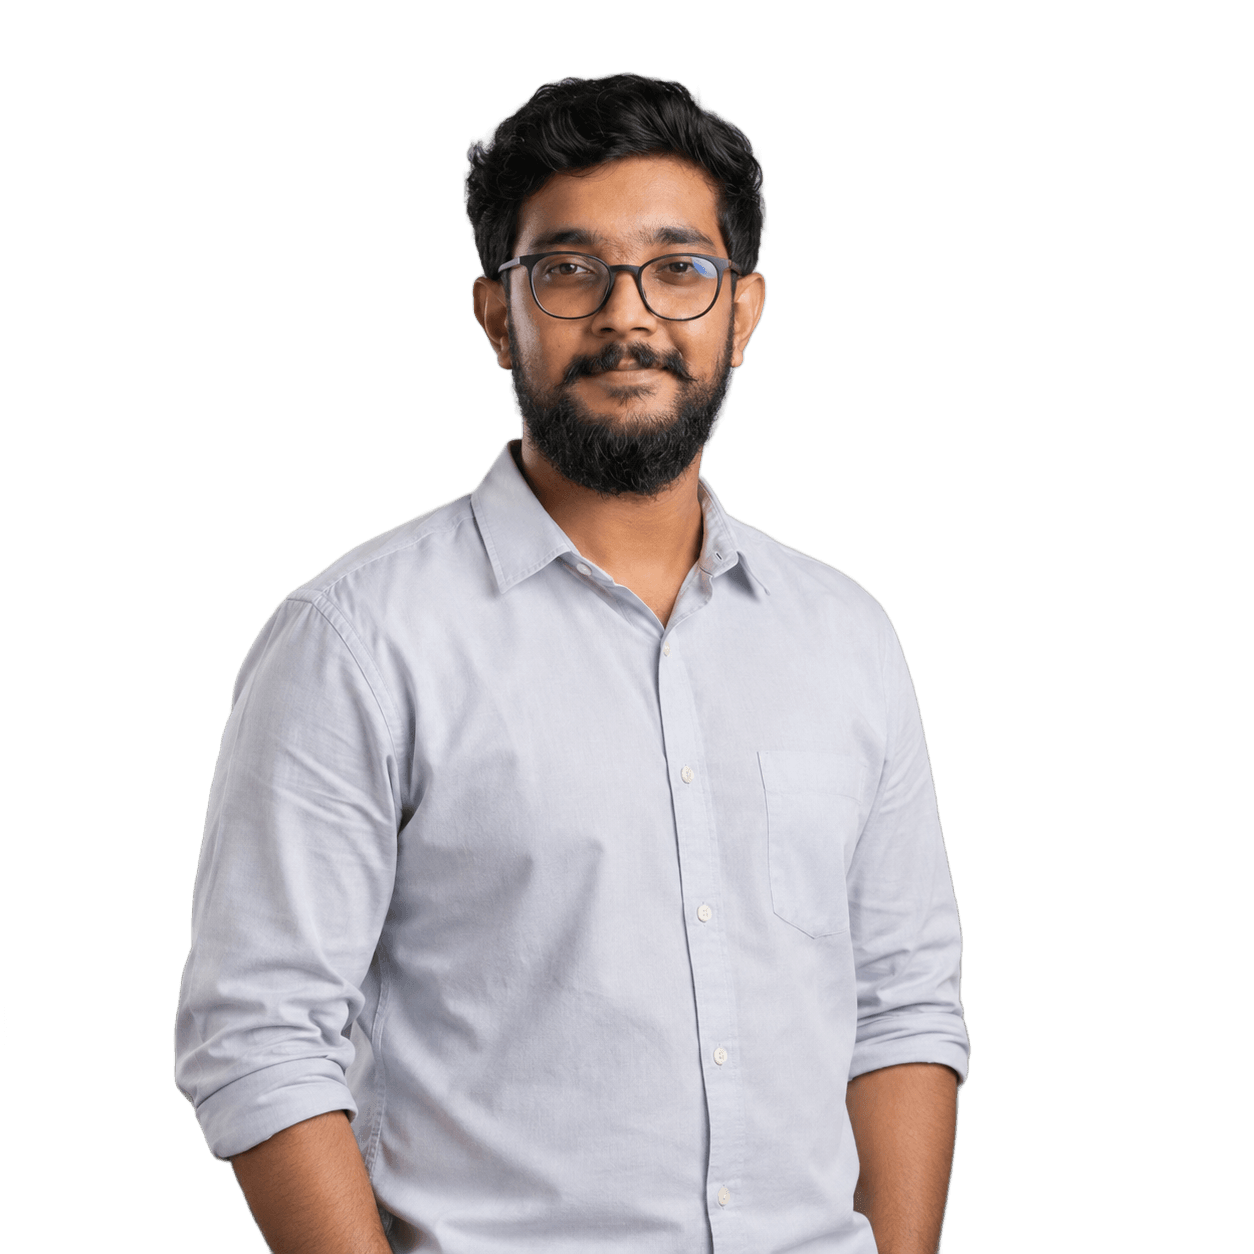
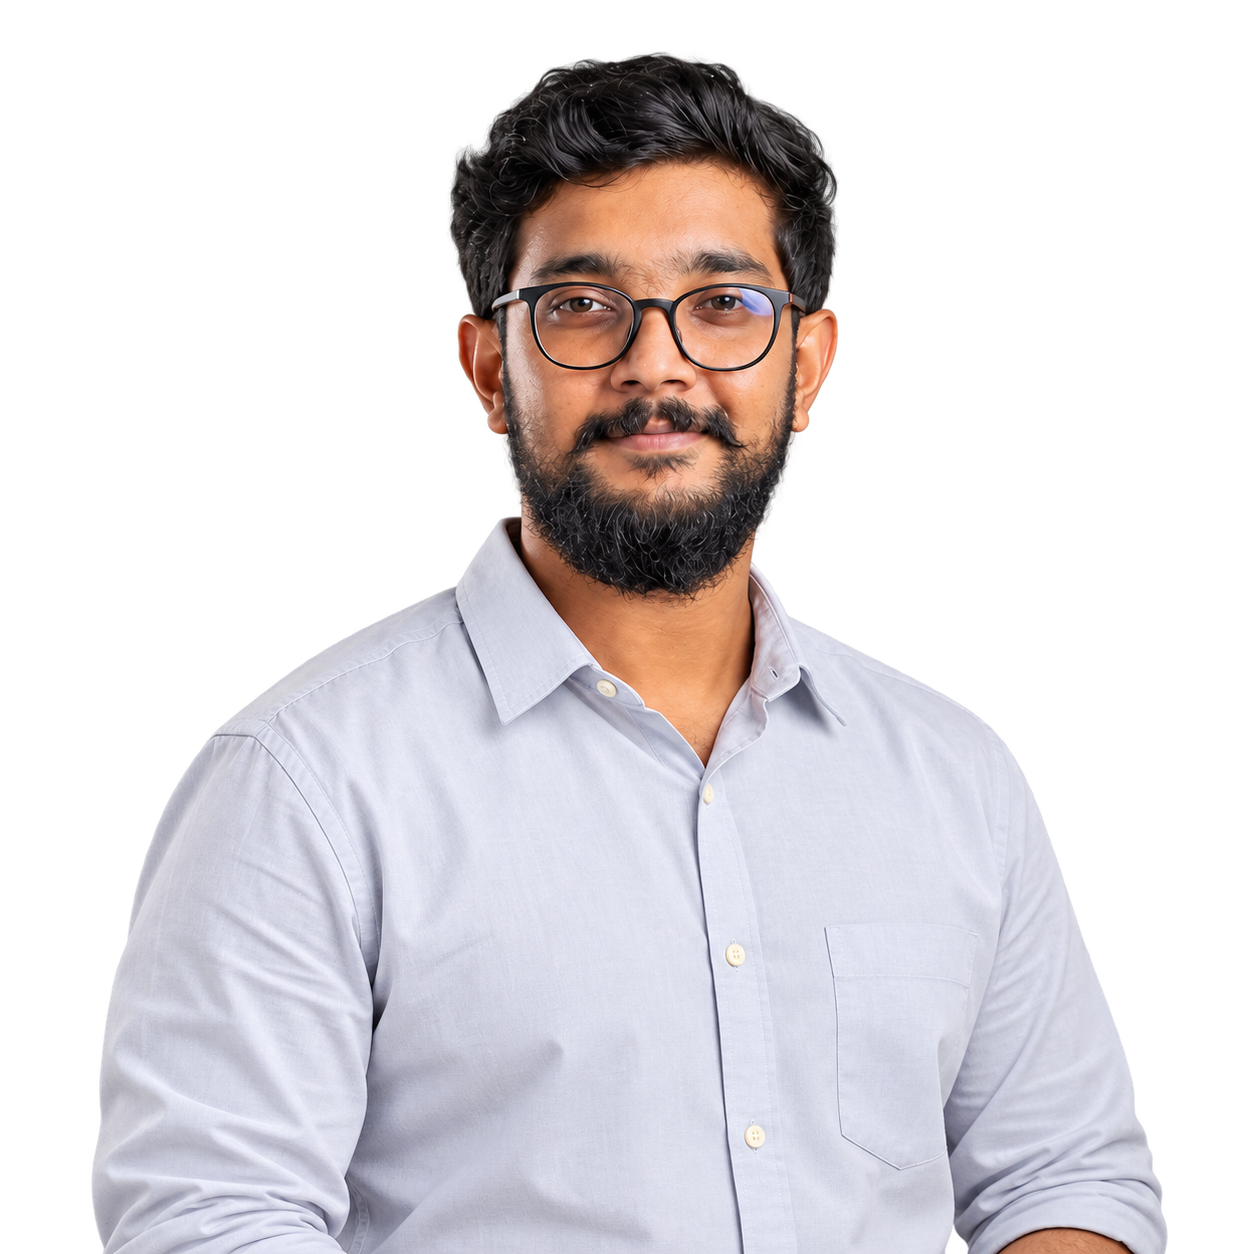
feat: add CostEffectiveSection, GlobalTalent, and HeroSection components with asset files

diff --git a/components/bayshoreSolutions/CostEffectiveSection.tsx b/components/bayshoreSolutions/CostEffectiveSection.tsx
@@ -28,19 +28,19 @@ export default function CostEffectiveSection({ onFindTalentForRoleClick }: CostE
                 </div>
 
                 {/* Light Blue Container wrapping the 3 Cards */}
-                <div className="">
+                <div className="bg-[#F0F7FD] rounded-[32px] p-4 sm:p-6 lg:p-8 border border-[#E1EFFE]/80">
                     <div className="grid grid-cols-1 lg:grid-cols-3 gap-6 lg:gap-6 items-stretch relative">
 
                         {/* =========================================================================
                             CARD 1: Bayshore VA (Dark Navy Blue Card)
                            ========================================================================= */}
-                        <div className="bg-[#0B192C] text-white rounded-[24px] p-16 md:p-8 flex flex-col justify-between shadow-xl relative z-10">
+                        <div className="bg-[#0B192C] text-white rounded-[24px] p-6 sm:p-8 flex flex-col justify-between shadow-xl relative z-10">
                             <div>
                                 <h3 className="font-bold text-center text-[20px] md:text-[24px] text-white mb-6 pb-4 border-b border-white/10 tracking-wide">
                                     Bayshore VA
                                 </h3>
 
-                                <div className="space-y-16">
+                                <div className="space-y-6">
                                     {/* Item 1: Hourly Rate */}
                                     <div className="flex items-center gap-4 pb-5 border-b border-white/10">
                                         <div className="w-16 h-16 rounded-full bg-gradient-to-br from-[#FF6B2B] to-[#FF4500] text-white flex items-center justify-center flex-shrink-0 shadow-md border border-orange-400/30">
@@ -133,30 +133,29 @@ export default function CostEffectiveSection({ onFindTalentForRoleClick }: CostE
                         {/* =========================================================================
                             CARD 2: Full-Time Hire (White Card)
                            ========================================================================= */}
-                        <div className="bg-white text-[#0B192C] rounded-[24px] p-16 md:p-8 flex flex-col justify-between shadow-sm border border-gray-100 relative z-10">
+                        <div className="bg-white text-[#0B192C] rounded-[24px] p-6 sm:p-8 flex flex-col justify-between shadow-sm border border-gray-100 relative z-10">
                             <div>
                                 <h3 className="font-bold text-center text-[20px] md:text-[24px] text-[#0B192C] mb-6 pb-4 border-b border-gray-100 tracking-wide">
                                     Full-Time Hire
                                 </h3>
 
-                                <div className="space-y-16">
+                                <div className="space-y-6">
                                     {/* Item 1: Annual Salary */}
                                     <div className="flex items-center gap-4 pb-5 border-b border-gray-100">
                                         <div className="w-16 h-16 rounded-full border-2 border-[#FF5E1E] bg-[#FFF5F0] text-[#FF5E1E] flex items-center justify-center flex-shrink-0">
-                                            <svg className="w-8 h-8" fill="none" viewBox="0 0 24 24" stroke="currentColor" strokeWidth="2.2">
-                                                <path strokeLinecap="round" strokeLinejoin="round" d="M12 8c-1.657 0-3 .895-3 2s1.343 2 3 2 3 .895 3 2-1.343 2-3 2m0-8c1.11 0 2.08.402 2.599 1M12 8V7m0 1v8m0 0v1m0-1c-1.11 0-2.08-.402-2.599-1M21 12a9 9 0 11-18 0 9 9 0 0118 0z" />
+                                            <svg className="w-8 h-8" viewBox="0 0 24 24" fill="none" stroke="currentColor" strokeWidth="2" strokeLinecap="round" strokeLinejoin="round">
+                                                <path d="M9 4c-.8.8-1 2-1 3h8c0-1-.2-2.2-1-3" />
+                                                <path d="M10 7l-2 2.5C6 12 5 14 5 17a5 5 0 005 5h4a5 5 0 005-5c0-3-1-5-3-7.5L14 7" />
+                                                <path d="M12 11.5v6" />
+                                                <path d="M10 13.5c.5-.5 1.2-.8 2-.8 1.2 0 1.8.5 1.8 1.2 0 .8-.8 1.1-1.8 1.4-1 .3-1.8.6-1.8 1.4 0 .7.6 1.2 1.8 1.2.8 0 1.5-.3 2-.8" />
                                             </svg>
                                         </div>
                                         <div>
                                             <h4 className="font-bold text-[16px] md:text-[24px] text-[#0B192C] leading-tight">
                                                 {isInView ? (
-                                                    <>
-                                                        <CountUp start={0} end={45000} duration={2} separator="," prefix="$" />
-                                                        {' - '}
-                                                        <CountUp start={0} end={60000} duration={2} separator="," prefix="$" />
-                                                    </>
+                                                    <CountUp start={0} end={55000} duration={2} separator="," prefix="$" suffix="+" />
                                                 ) : (
-                                                    '$0 - $0'
+                                                    '$0+'
                                                 )}
                                             </h4>
                                             <p className="text-gray-400 font-medium text-[13px] sm:text-[14px] mt-0.5">
@@ -168,8 +167,9 @@ export default function CostEffectiveSection({ onFindTalentForRoleClick }: CostE
                                     {/* Item 2: Benefits */}
                                     <div className="flex items-center gap-4 pb-5 border-b border-gray-100">
                                         <div className="w-16 h-16 rounded-full border-2 border-[#FF5E1E] bg-[#FFF5F0] text-[#FF5E1E] flex items-center justify-center flex-shrink-0">
-                                            <svg className="w-8 h-8" fill="none" viewBox="0 0 24 24" stroke="currentColor" strokeWidth="2.2">
-                                                <path strokeLinecap="round" strokeLinejoin="round" d="M12 4v16m8-8H4" />
+                                            <svg className="w-8 h-8" viewBox="0 0 24 24" fill="none" stroke="currentColor" strokeWidth="2.2" strokeLinecap="round" strokeLinejoin="round">
+                                                <path d="M12 22s8-4 8-10V5l-8-3-8 3v7c0 6 8 10 8 10z" />
+                                                <path d="M12 8v8m-4-4h8" />
                                             </svg>
                                         </div>
                                         <div>
@@ -189,8 +189,9 @@ export default function CostEffectiveSection({ onFindTalentForRoleClick }: CostE
                                     {/* Item 3: Equipment & Software */}
                                     <div className="flex items-center gap-4 pb-5 border-b border-gray-100">
                                         <div className="w-16 h-16 rounded-full border-2 border-[#FF5E1E] bg-[#FFF5F0] text-[#FF5E1E] flex items-center justify-center flex-shrink-0">
-                                            <svg className="w-8 h-8" fill="none" viewBox="0 0 24 24" stroke="currentColor" strokeWidth="2.2">
-                                                <path strokeLinecap="round" strokeLinejoin="round" d="M9.75 17L9 20l-1 1h8l-1-1-.75-3M3 13h18M5 17h14a2 2 0 002-2V5a2 2 0 00-2-2H5a2 2 0 00-2 2v10a2 2 0 002 2z" />
+                                            <svg className="w-8 h-8" viewBox="0 0 24 24" fill="none" stroke="currentColor" strokeWidth="2.2" strokeLinecap="round" strokeLinejoin="round">
+                                                <rect x="3" y="4" width="18" height="12" rx="2" />
+                                                <path d="M2 20h20" />
                                             </svg>
                                         </div>
                                         <div>
@@ -210,8 +211,13 @@ export default function CostEffectiveSection({ onFindTalentForRoleClick }: CostE
                                     {/* Item 4: Office Space & Overhead */}
                                     <div className="flex items-center gap-4">
                                         <div className="w-16 h-16 rounded-full border-2 border-[#FF5E1E] bg-[#FFF5F0] text-[#FF5E1E] flex items-center justify-center flex-shrink-0">
-                                            <svg className="w-8 h-8" fill="none" viewBox="0 0 24 24" stroke="currentColor" strokeWidth="2.2">
-                                                <path strokeLinecap="round" strokeLinejoin="round" d="M19 21V5a2 2 0 00-2-2H7a2 2 0 00-2 2v16m14 0h2m-2 0h-5m-9 0H3m2 0h5m0 0v-5a1 1 0 011-1h2a1 1 0 011 1v5m-4 0h4" />
+                                            <svg className="w-8 h-8" viewBox="0 0 24 24" fill="none" stroke="currentColor" strokeWidth="2" strokeLinecap="round" strokeLinejoin="round">
+                                                <circle cx="12" cy="6" r="2" />
+                                                <path d="M12 8v5" />
+                                                <path d="M9 13h6" />
+                                                <path d="M4 14h16" />
+                                                <path d="M6 14v6m12-6v6" />
+                                                <path d="M4 20h4m8 0h4" />
                                             </svg>
                                         </div>
                                         <div>

diff --git a/components/bayshoreSolutions/GlobalTalent.tsx b/components/bayshoreSolutions/GlobalTalent.tsx
@@ -1,24 +1,114 @@
 'use client';
 
-import React, { useRef } from 'react';
+import React, { useRef, useEffect } from 'react';
 import Image from 'next/image';
 import { FiChevronLeft, FiChevronRight } from 'react-icons/fi';
 // flag-icons styles are provided by the app's global stylesheet.
 
 export default function GlobalTalent() {
     const scrollRef = useRef<HTMLDivElement | null>(null);
+    const isHoveredRef = useRef(false);
+    const isInteractingRef = useRef(false);
+    const resumeTimeoutRef = useRef<NodeJS.Timeout | null>(null);
+    const currentPosRef = useRef(0);
+
+    const pauseAutoScroll = (duration = 2500) => {
+        isInteractingRef.current = true;
+        if (resumeTimeoutRef.current) clearTimeout(resumeTimeoutRef.current);
+        resumeTimeoutRef.current = setTimeout(() => {
+            isInteractingRef.current = false;
+        }, duration);
+    };
+
+    const handleScroll = () => {
+        if (!scrollRef.current) return;
+        const el = scrollRef.current;
+        currentPosRef.current = el.scrollLeft;
+        const singleSetWidth = el.scrollWidth / 4;
+        if (singleSetWidth <= 0) return;
+
+        // Wrap seamlessly if near outer boundaries
+        if (el.scrollLeft >= 2.8 * singleSetWidth) {
+            el.scrollLeft -= singleSetWidth;
+            currentPosRef.current = el.scrollLeft;
+        } else if (el.scrollLeft <= 0.4 * singleSetWidth) {
+            el.scrollLeft += singleSetWidth;
+            currentPosRef.current = el.scrollLeft;
+        }
+    };
 
     const scrollLeft = () => {
-        if (scrollRef.current) {
-            scrollRef.current.scrollBy({ left: -320, behavior: 'smooth' });
+        if (!scrollRef.current) return;
+        pauseAutoScroll(2000);
+        const el = scrollRef.current;
+        const singleSetWidth = el.scrollWidth / 4;
+        if (singleSetWidth > 0 && el.scrollLeft <= 0.8 * singleSetWidth) {
+            el.scrollLeft += singleSetWidth;
+            currentPosRef.current = el.scrollLeft;
         }
+        el.scrollBy({ left: -320, behavior: 'smooth' });
     };
 
     const scrollRight = () => {
-        if (scrollRef.current) {
-            scrollRef.current.scrollBy({ left: 320, behavior: 'smooth' });
+        if (!scrollRef.current) return;
+        pauseAutoScroll(2000);
+        const el = scrollRef.current;
+        const singleSetWidth = el.scrollWidth / 4;
+        if (singleSetWidth > 0 && el.scrollLeft >= 2.5 * singleSetWidth) {
+            el.scrollLeft -= singleSetWidth;
+            currentPosRef.current = el.scrollLeft;
         }
+        el.scrollBy({ left: 320, behavior: 'smooth' });
     };
+
+    useEffect(() => {
+        const el = scrollRef.current;
+        if (!el) return;
+
+        const initScroll = () => {
+            const singleSetWidth = el.scrollWidth / 4;
+            if (singleSetWidth > 0) {
+                el.scrollLeft = singleSetWidth * 1.5;
+                currentPosRef.current = el.scrollLeft;
+            }
+        };
+
+        initScroll();
+        const timer = setTimeout(initScroll, 200);
+
+        let animationFrameId: number;
+        let lastTimestamp = performance.now();
+
+        const autoScrollStep = (timestamp: number) => {
+            const delta = timestamp - lastTimestamp;
+            lastTimestamp = timestamp;
+
+            if (scrollRef.current && !isHoveredRef.current && !isInteractingRef.current) {
+                const elCurrent = scrollRef.current;
+                const isMobile = window.innerWidth <= 768;
+                // Smooth continuous scroll speed (px/sec)
+                const speed = isMobile ? 22 : 28;
+                currentPosRef.current += (speed * delta) / 1000;
+                elCurrent.scrollLeft = currentPosRef.current;
+
+                const singleSetWidth = elCurrent.scrollWidth / 4;
+                if (singleSetWidth > 0 && elCurrent.scrollLeft >= 2.8 * singleSetWidth) {
+                    elCurrent.scrollLeft -= singleSetWidth;
+                    currentPosRef.current = elCurrent.scrollLeft;
+                }
+            }
+
+            animationFrameId = requestAnimationFrame(autoScrollStep);
+        };
+
+        animationFrameId = requestAnimationFrame(autoScrollStep);
+
+        return () => {
+            cancelAnimationFrame(animationFrameId);
+            clearTimeout(timer);
+            if (resumeTimeoutRef.current) clearTimeout(resumeTimeoutRef.current);
+        };
+    }, []);
 
     const talents = [
         {
@@ -219,12 +309,16 @@ export default function GlobalTalent() {
                 {/* Marquee & Scrollable Wrapper */}
                 <div
                     ref={scrollRef}
-                    className="w-full overflow-x-auto flex py-4 sm:py-8 px-4 scrollbar-none scroll-smooth mask-gradient"
+                    onScroll={handleScroll}
+                    onMouseEnter={() => { isHoveredRef.current = true; }}
+                    onMouseLeave={() => { isHoveredRef.current = false; }}
+                    onTouchStart={() => pauseAutoScroll(3000)}
+                    className="w-full overflow-x-auto flex py-4 sm:py-8 px-4 scrollbar-none mask-gradient cursor-grab active:cursor-grabbing"
                     style={{ scrollbarWidth: 'none', msOverflowStyle: 'none' }}
                 >
-                    <div className="flex gap-6 animate-marquee whitespace-nowrap my-2">
-                        {/* Repeat talents array twice for seamless looping & manual scrolling */}
-                        {[...talents, ...talents].map((talent, index) => (
+                    <div className="flex gap-6 whitespace-nowrap my-2 w-max select-none">
+                        {/* Repeat talents 4 times for endless seamless bidirectional navigation */}
+                        {[...talents, ...talents, ...talents, ...talents].map((talent, index) => (
                             <div
                                 key={index}
                                 className="w-[280px] flex-shrink-0 bg-white rounded-[20px] md:rounded-[24px] shadow-2xl border border-orange-100 flex flex-col overflow-hidden"
@@ -294,25 +388,8 @@ export default function GlobalTalent() {
                 </button>
             </div>
 
-            {/* Custom CSS for Marquee Animation and Mask */}
+            {/* Custom CSS for Hide Scrollbar & Mask */}
             <style jsx global>{`
-                @keyframes marquee {
-                    0% { transform: translateX(0%); }
-                    100% { transform: translateX(-50%); }
-                }
-                .animate-marquee {
-                    display: flex;
-                    width: max-content;
-                    animation: marquee 150s linear infinite;
-                }
-                @media (max-width: 768px) {
-                    .animate-marquee {
-                        animation-duration: 220s;
-                    }
-                }
-                .animate-marquee:hover {
-                    animation-play-state: paused;
-                }
                 .scrollbar-none::-webkit-scrollbar {
                     display: none;
                 }

diff --git a/components/bayshoreSolutions/HeroSection.tsx b/components/bayshoreSolutions/HeroSection.tsx
@@ -91,12 +91,12 @@ export default function HeroSection() {
           <div className="pointer-events-auto">
             <Link
               href="/find-talent"
-              className="inline-flex items-center justify-center gap-2 bg-[#0B192C] text-white rounded-xl md:rounded-2xl px-5 sm:px-7 py-2.5 sm:py-3 text-sm sm:text-base font-semibold tracking-wide hover:bg-primary transition-all duration-300 shadow-md hover:shadow-lg group whitespace-nowrap"
+              className="group inline-flex items-center justify-center gap-2.5 sm:gap-3 bg-[#0B192C] hover:bg-[#FE6F1F] text-white rounded-full px-7 sm:px-9 py-3.5 sm:py-4 text-[15px] sm:text-[16px] md:text-[17px] font-bold tracking-wide transition-all duration-300 shadow-md hover:shadow-xl hover:scale-[1.02] active:scale-[0.98] cursor-pointer whitespace-nowrap"
             >
-              <span>FIND YOUR TALENT</span>
+              <span>Find Your Talent</span>
               <svg
                 xmlns="http://www.w3.org/2000/svg"
-                className="w-4 h-4 transform group-hover:translate-x-1 transition-transform duration-300 shrink-0"
+                className="w-4 h-4 sm:w-5 sm:h-5 transform group-hover:translate-x-1.5 transition-transform duration-300 shrink-0"
                 fill="none"
                 viewBox="0 0 24 24"
                 stroke="currentColor"
